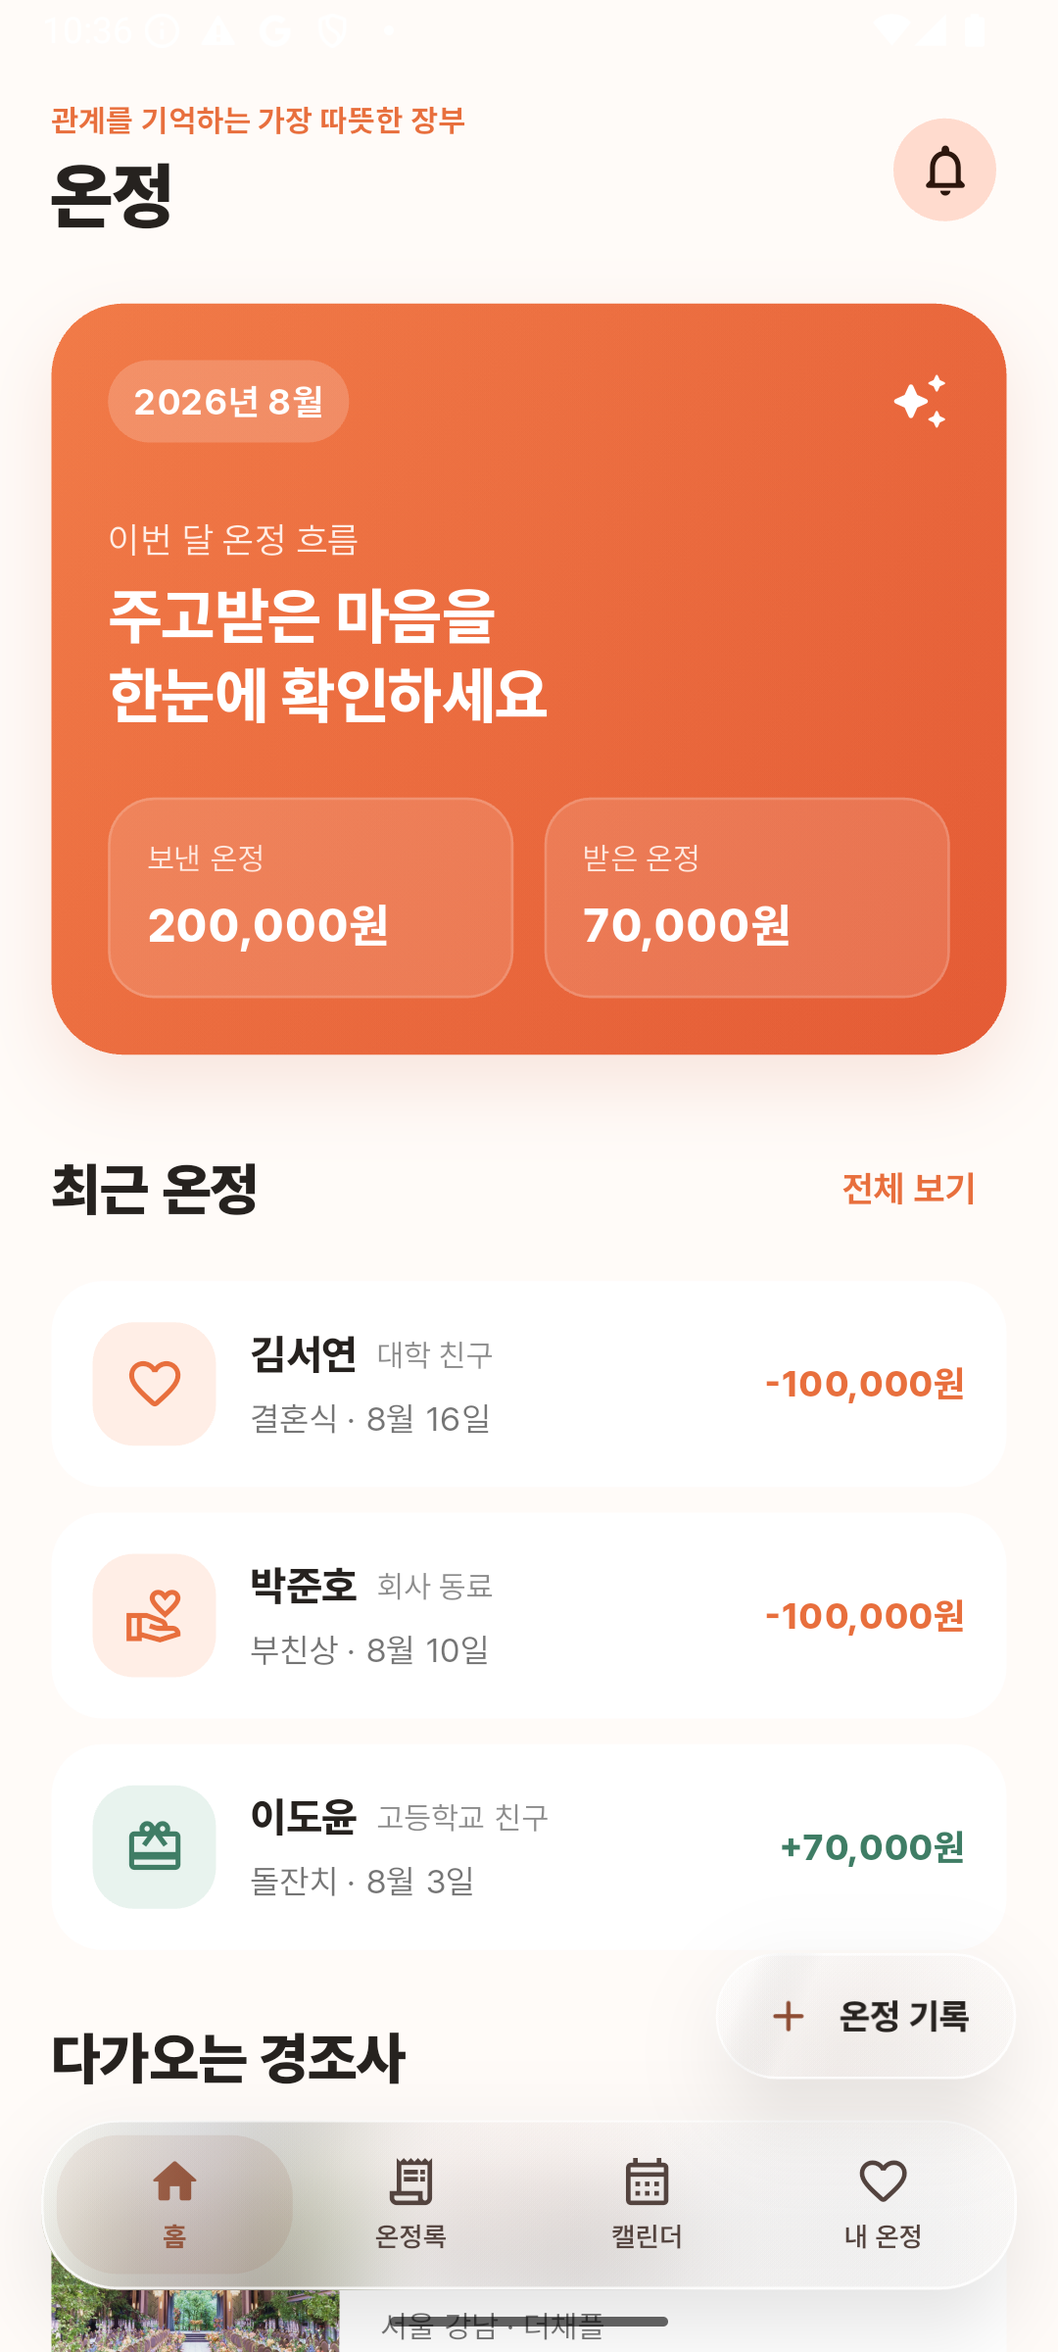
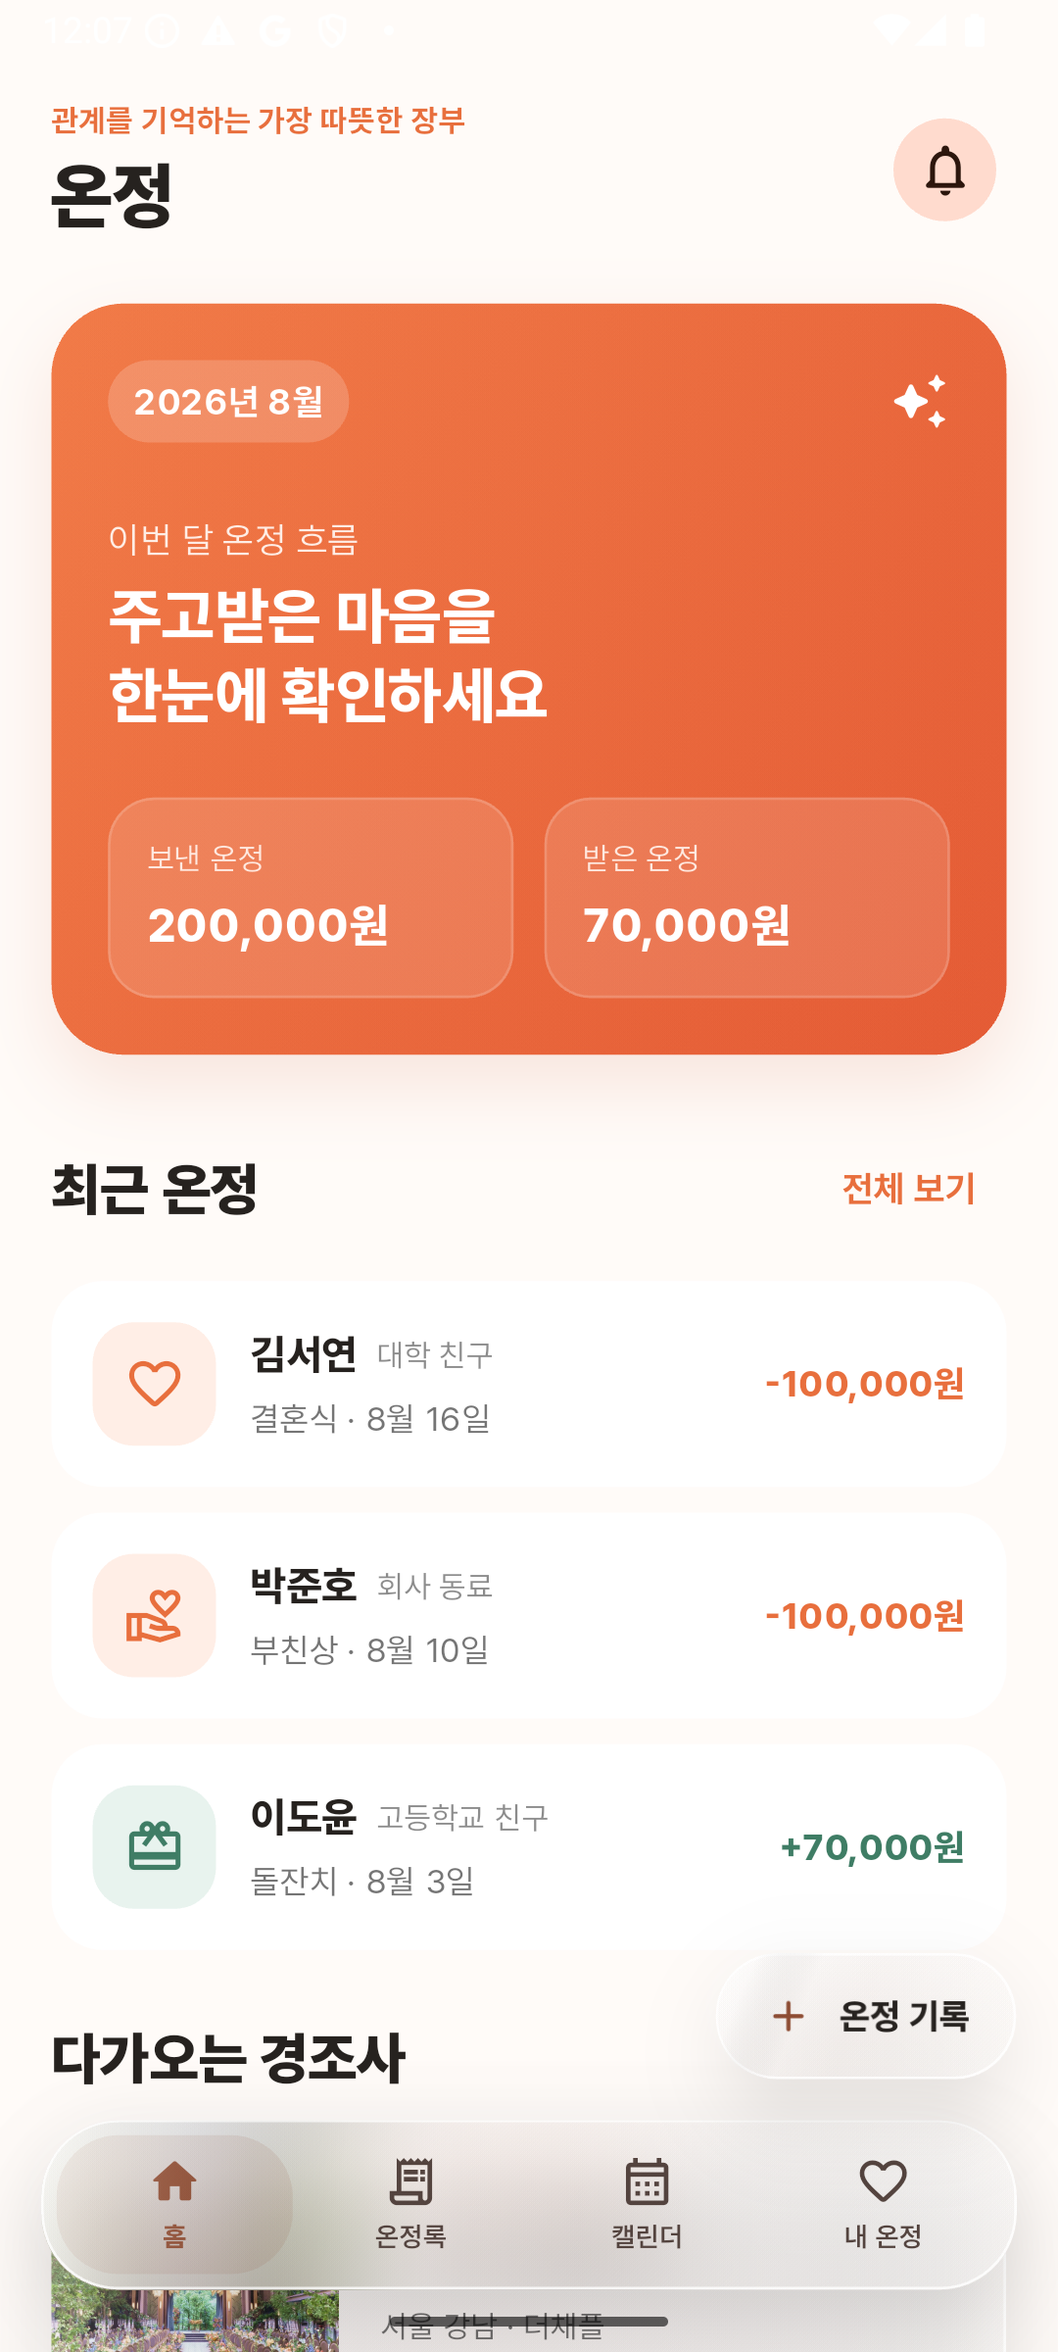
Refine liquid glass portfolio surfaces

Changed region(s): [[0.0306, 0.9688, 0.7028, 1.0]]

diff --git a/lib/portfolio/onjung_portfolio_app.dart b/lib/portfolio/onjung_portfolio_app.dart
@@ -359,17 +359,25 @@ class _RecordsScreenState extends ConsumerState<RecordsScreen> {
                   ),
                 ),
                 const SizedBox(height: 22),
-                Row(
-                  children: [
-                    Text(
-                      '${records.length}개의 기록',
-                      style: Theme.of(context).textTheme.titleMedium?.copyWith(
-                            fontWeight: FontWeight.w800,
-                          ),
-                    ),
-                    const Spacer(),
-                    const Text('최근순', style: TextStyle(color: Colors.black54)),
-                  ],
+                AppGlassSurface(
+                  borderRadius: BorderRadius.circular(18),
+                  blurSigma: 10,
+                  padding:
+                      const EdgeInsets.symmetric(horizontal: 14, vertical: 11),
+                  child: Row(
+                    children: [
+                      Text(
+                        '${records.length}개의 기록',
+                        style:
+                            Theme.of(context).textTheme.titleMedium?.copyWith(
+                                  fontWeight: FontWeight.w800,
+                                ),
+                      ),
+                      const Spacer(),
+                      const Text('최근순',
+                          style: TextStyle(color: Colors.black54)),
+                    ],
+                  ),
                 ),
                 const SizedBox(height: 12),
                 ...records.map(
@@ -510,51 +518,58 @@ class RecordDetailScreen extends StatelessWidget {
                       ),
                     ),
                   if (record.assetPath != null) const SizedBox(height: 22),
-                  Row(
-                    crossAxisAlignment: CrossAxisAlignment.start,
-                    children: [
-                      Expanded(
-                        child: Column(
-                          crossAxisAlignment: CrossAxisAlignment.start,
-                          children: [
-                            Text(record.event,
-                                style: const TextStyle(
-                                    color: _brand,
-                                    fontWeight: FontWeight.w700)),
-                            const SizedBox(height: 5),
-                            Text(
-                              record.person,
-                              style: Theme.of(context)
-                                  .textTheme
-                                  .headlineMedium
-                                  ?.copyWith(fontWeight: FontWeight.w900),
-                            ),
-                            const SizedBox(height: 4),
-                            Text(record.relation,
-                                style: const TextStyle(color: Colors.black54)),
-                          ],
+                  AppGlassSurface(
+                    borderRadius: BorderRadius.circular(22),
+                    blurSigma: 12,
+                    padding: const EdgeInsets.all(16),
+                    child: Row(
+                      crossAxisAlignment: CrossAxisAlignment.start,
+                      children: [
+                        Expanded(
+                          child: Column(
+                            crossAxisAlignment: CrossAxisAlignment.start,
+                            children: [
+                              Text(record.event,
+                                  style: const TextStyle(
+                                      color: _brand,
+                                      fontWeight: FontWeight.w700)),
+                              const SizedBox(height: 5),
+                              Text(
+                                record.person,
+                                style: Theme.of(context)
+                                    .textTheme
+                                    .headlineMedium
+                                    ?.copyWith(fontWeight: FontWeight.w900),
+                              ),
+                              const SizedBox(height: 4),
+                              Text(record.relation,
+                                  style:
+                                      const TextStyle(color: Colors.black54)),
+                            ],
+                          ),
                         ),
-                      ),
-                      Container(
-                        padding: const EdgeInsets.symmetric(
-                            horizontal: 12, vertical: 7),
-                        decoration: BoxDecoration(
-                          color: record.isSent
-                              ? const Color(0xFFFFE9DF)
-                              : const Color(0xFFE4F1EB),
-                          borderRadius: BorderRadius.circular(999),
+                        Container(
+                          padding: const EdgeInsets.symmetric(
+                              horizontal: 12, vertical: 7),
+                          decoration: BoxDecoration(
+                            color: record.isSent
+                                ? const Color(0xFFFFE9DF)
+                                : const Color(0xFFE4F1EB),
+                            borderRadius: BorderRadius.circular(999),
+                          ),
+                          child: Text(record.isSent ? '보낸 온정' : '받은 온정',
+                              style:
+                                  const TextStyle(fontWeight: FontWeight.w700)),
                         ),
-                        child: Text(record.isSent ? '보낸 온정' : '받은 온정',
-                            style:
-                                const TextStyle(fontWeight: FontWeight.w700)),
-                      ),
-                    ],
+                      ],
+                    ),
                   ),
                   const SizedBox(height: 28),
-                  Container(
+                  AppGlassSurface(
+                    tint: _ink,
+                    borderRadius: BorderRadius.circular(24),
+                    blurSigma: 14,
                     padding: const EdgeInsets.all(20),
-                    decoration: BoxDecoration(
-                        color: _ink, borderRadius: BorderRadius.circular(24)),
                     child: Column(
                       crossAxisAlignment: CrossAxisAlignment.start,
                       children: [
@@ -592,10 +607,11 @@ class RecordDetailScreen extends StatelessWidget {
                           .titleMedium
                           ?.copyWith(fontWeight: FontWeight.w800)),
                   const SizedBox(height: 10),
-                  Container(
+                  AppGlassSurface(
+                    tint: _cream,
+                    borderRadius: BorderRadius.circular(20),
+                    blurSigma: 10,
                     padding: const EdgeInsets.all(18),
-                    decoration: BoxDecoration(
-                        color: _cream, borderRadius: BorderRadius.circular(20)),
                     child:
                         Text(record.note, style: const TextStyle(height: 1.6)),
                   ),
@@ -730,11 +746,11 @@ class _AddRecordScreenState extends ConsumerState<AddRecordScreen> {
               child: ListView(
                 padding: const EdgeInsets.fromLTRB(20, 10, 20, 32),
                 children: [
-                  Container(
+                  AppGlassSurface(
+                    tint: const Color(0xFFFFEADF),
+                    borderRadius: BorderRadius.circular(24),
+                    blurSigma: 12,
                     padding: const EdgeInsets.all(20),
-                    decoration: BoxDecoration(
-                        color: const Color(0xFFFFEADF),
-                        borderRadius: BorderRadius.circular(24)),
                     child: const Row(
                       children: [
                         CircleAvatar(
@@ -981,10 +997,11 @@ class MyOnjungScreen extends ConsumerWidget {
         children: [
           const _BrandHeader(eyebrow: '나의 관계와 온정 패턴', title: '내 온정'),
           const SizedBox(height: 22),
-          Container(
+          AppGlassSurface(
+            tint: _ink,
+            borderRadius: BorderRadius.circular(26),
+            blurSigma: 14,
             padding: const EdgeInsets.all(20),
-            decoration: BoxDecoration(
-                color: _ink, borderRadius: BorderRadius.circular(26)),
             child: Row(
               children: [
                 const CircleAvatar(
@@ -1078,10 +1095,10 @@ class _SummaryCard extends StatelessWidget {
 
   @override
   Widget build(BuildContext context) {
-    return Container(
+    return AppGlassSurface(
+      borderRadius: BorderRadius.circular(20),
+      blurSigma: 11,
       padding: const EdgeInsets.all(18),
-      decoration: BoxDecoration(
-          color: Colors.white, borderRadius: BorderRadius.circular(20)),
       child: Column(
         crossAxisAlignment: CrossAxisAlignment.start,
         children: [
@@ -1112,10 +1129,10 @@ class _PersonInsight extends StatelessWidget {
 
   @override
   Widget build(BuildContext context) {
-    return Container(
+    return AppGlassSurface(
+      borderRadius: BorderRadius.circular(20),
+      blurSigma: 10,
       padding: const EdgeInsets.all(16),
-      decoration: BoxDecoration(
-          color: Colors.white, borderRadius: BorderRadius.circular(20)),
       child: Row(
         children: [
           CircleAvatar(
@@ -1180,49 +1197,51 @@ class _UpcomingCard extends StatelessWidget {
 
   @override
   Widget build(BuildContext context) {
-    return Container(
-      clipBehavior: Clip.antiAlias,
-      decoration: BoxDecoration(
-          color: Colors.white, borderRadius: BorderRadius.circular(24)),
-      child: Row(
-        children: [
-          SizedBox(
-              width: 112,
-              height: 130,
-              child: Image.asset(event.assetPath, fit: BoxFit.cover)),
-          Expanded(
-            child: Padding(
-              padding: const EdgeInsets.all(16),
-              child: Column(
-                crossAxisAlignment: CrossAxisAlignment.start,
-                children: [
-                  Text(
-                      '${DateFormat('M월 d일').format(event.date)} · ${event.relation}',
-                      style: const TextStyle(
-                          color: _brand,
-                          fontWeight: FontWeight.w700,
-                          fontSize: 12)),
-                  const SizedBox(height: 6),
-                  Text(event.title,
-                      maxLines: 2,
-                      overflow: TextOverflow.ellipsis,
-                      style: const TextStyle(
-                          fontWeight: FontWeight.w900, fontSize: 16)),
-                  const SizedBox(height: 6),
-                  Text(event.location,
-                      maxLines: 1,
-                      overflow: TextOverflow.ellipsis,
-                      style:
-                          const TextStyle(color: Colors.black54, fontSize: 12)),
-                  const SizedBox(height: 9),
-                  const Text('이전 기록을 참고해 금액 결정하기 →',
-                      style:
-                          TextStyle(fontWeight: FontWeight.w700, fontSize: 12)),
-                ],
+    return AppGlassSurface(
+      borderRadius: BorderRadius.circular(24),
+      blurSigma: 10,
+      child: ClipRRect(
+        borderRadius: BorderRadius.circular(24),
+        child: Row(
+          children: [
+            SizedBox(
+                width: 112,
+                height: 130,
+                child: Image.asset(event.assetPath, fit: BoxFit.cover)),
+            Expanded(
+              child: Padding(
+                padding: const EdgeInsets.all(16),
+                child: Column(
+                  crossAxisAlignment: CrossAxisAlignment.start,
+                  children: [
+                    Text(
+                        '${DateFormat('M월 d일').format(event.date)} · ${event.relation}',
+                        style: const TextStyle(
+                            color: _brand,
+                            fontWeight: FontWeight.w700,
+                            fontSize: 12)),
+                    const SizedBox(height: 6),
+                    Text(event.title,
+                        maxLines: 2,
+                        overflow: TextOverflow.ellipsis,
+                        style: const TextStyle(
+                            fontWeight: FontWeight.w900, fontSize: 16)),
+                    const SizedBox(height: 6),
+                    Text(event.location,
+                        maxLines: 1,
+                        overflow: TextOverflow.ellipsis,
+                        style: const TextStyle(
+                            color: Colors.black54, fontSize: 12)),
+                    const SizedBox(height: 9),
+                    const Text('이전 기록을 참고해 금액 결정하기 →',
+                        style: TextStyle(
+                            fontWeight: FontWeight.w700, fontSize: 12)),
+                  ],
+                ),
               ),
             ),
-          ),
-        ],
+          ],
+        ),
       ),
     );
   }
@@ -1233,11 +1252,11 @@ class _RelationshipInsight extends StatelessWidget {
 
   @override
   Widget build(BuildContext context) {
-    return Container(
+    return AppGlassSurface(
+      tint: const Color(0xFFF1F5EC),
+      borderRadius: BorderRadius.circular(24),
+      blurSigma: 11,
       padding: const EdgeInsets.all(20),
-      decoration: BoxDecoration(
-          color: const Color(0xFFF1F5EC),
-          borderRadius: BorderRadius.circular(24)),
       child: Row(
         crossAxisAlignment: CrossAxisAlignment.start,
         children: [

diff --git a/README.md b/README.md
@@ -5,7 +5,7 @@
 
 This is a **2026 UX renewal** of the Flutter project I first built while learning mobile product development in 2024. The goal is not to cover every screen with blur, but to revisit the same product with a clearer interaction hierarchy, adaptive controls, motion/accessibility fallbacks, platform conventions, and rendering-cost awareness.
 
-2024년에 Flutter를 처음 배우며 기능 구현 중심으로 만들었던 프로젝트를, 2026년에 **interaction hierarchy, adaptive UI, motion, accessibility, platform convention, rendering cost**를 기준으로 다시 설계한 UX renewal입니다. 모든 화면을 반투명하게 만드는 것이 아니라, 콘텐츠는 읽기 쉽게 유지하고 navigation/action/search 같은 control layer만 선택적으로 떠 있게 만들었습니다.
+2024년에 Flutter를 처음 배우며 기능 구현 중심으로 만들었던 프로젝트를, 2026년에 **interaction hierarchy, adaptive UI, motion, accessibility, platform convention, rendering cost**를 기준으로 다시 설계한 UX renewal입니다. 모든 화면을 반투명하게 만드는 것이 아니라, 기록 리스트·사진처럼 읽기 중요한 콘텐츠는 선명하게 유지하고 navigation/action/search와 summary·metadata·insight surface를 강도별 glass hierarchy로 분리했습니다.
 
 **Branches / 버전** · [`v1` · original portfolio version](https://github.com/oosuhada/flutter_onjung_v1/tree/v1) · [`main` · v2 renewal](https://github.com/oosuhada/flutter_onjung_v1)
 
@@ -19,7 +19,7 @@ This is a **2026 UX renewal** of the Flutter project I first built while learnin
 | Search & filters | Static/basic controls | Searchable records + compact segmented control |
 | Motion | Default widget transitions | Reduced-motion-aware implicit animation |
 | Accessibility | Basic Material semantics | Selected-state semantics, minimum tap targets, high-contrast fallback |
-| Rendering | Visual styling first | Blur limited to compact control surfaces |
+| Rendering | Visual styling first | Glass-themed surface hierarchy for controls, summaries, metadata, and insights while record lists/photos stay sharp |
 
 > **Why did I change it? / 왜 바꿨나요?**  
 > In v1 I was mainly focused on making screens and features work. In v2 I kept the same product idea and reworked the experience around interaction hierarchy, motion, accessibility, platform conventions, and rendering cost.  
@@ -111,14 +111,14 @@ The portfolio runtime is intentionally small: Flutter/Material UI, Riverpod stat
 
 ## v2 visual system · v2 디자인 시스템
 
-The v2 glass layer is intentionally restricted to **navigation and controls**. The balance hero, record cards, photos, memo surfaces, calendar data, and relationship insights stay solid so the information remains legible and the app does not become a glassmorphism demo.
+The v2 glass layer separates **controls from contextual summary surfaces**. Record list rows, photos, and dense calendar data stay sharp, while record-count metadata, detail summary/amount/memo panels, quick-record guidance, My Onjung totals, upcoming-event context, and relationship insights use lower-intensity translucent surfaces.
 
-v2의 glass layer는 **navigation과 control**에만 제한적으로 사용합니다. 잔액 hero, 기록 카드, 사진, 메모, 캘린더 데이터, 관계 인사이트는 solid surface로 유지해 정보 가독성을 우선하고 과도한 glassmorphism을 피했습니다.
+v2의 glass layer는 **control과 보조 summary surface를 서로 다른 강도로 계층화**합니다. 기록 목록, 사진, 밀도 높은 캘린더 데이터는 선명하게 유지하고, 기록 개수 metadata, 상세 요약·금액·메모 panel, 빠른 기록 안내, 내 온정 합계, 다가오는 일정, 관계 insight에는 낮은 강도의 adaptive translucent layer를 적용했습니다.
 
 - **Adaptive transparency / 적응형 투명도** — `MediaQuery.highContrast`에서는 blur를 제거하고 surface opacity를 높입니다.
 - **Reduced motion / 모션 감소** — `MediaQuery.disableAnimations`에서는 navigation/filter transition duration을 0으로 줄입니다.
 - **Accessible controls / 접근 가능한 컨트롤** — selected semantics와 42–54px 이상의 control height를 사용합니다.
-- **Rendering-cost aware blur / 렌더링 비용 고려** — list item마다 `BackdropFilter`를 만들지 않고 navigation/search/toolbar 같은 작은 영역에만 blur를 적용합니다.
+- **Rendering-cost aware blur / 렌더링 비용 고려** — 반복되는 record list item이나 calendar cell마다 `BackdropFilter`를 만들지 않고 navigation/search/toolbar와 의미 있는 summary surface에만 선택적으로 blur를 적용합니다.
 - **Future renderer boundary / 확장 가능한 경계** — UI는 `AppGlass*` contract를 통해 사용하므로 향후 native material 또는 shader 구현으로 교체해도 product screen 코드는 크게 바꾸지 않도록 구성했습니다.
 
 ## Tech Stack · 기술 스택
